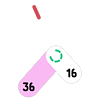
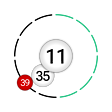
Add initial version with featureSlider

diff --git a/analog-circle-shades/usr/share/asteroid-launcher/watchfaces/analog-circle-shades.qml b/analog-circle-shades/usr/share/asteroid-launcher/watchfaces/analog-circle-shades.qml
@@ -40,7 +40,60 @@ Item {
 
     Item {
         id: batteryChargePercentage
-        property real percent: featureSlider.value
+        property real percent: featureSlider.value * 100
+    }
+
+    Item {
+        id: batterySegments
+
+        anchors.fill: parent
+
+        layer {
+            enabled: true
+            samples: 4
+            smooth: true
+            textureSize: Qt.size(root.width * 2, root.height * 2)
+        }
+
+        Repeater {
+            id: segmentedArc
+
+            property real inputValue: batteryChargePercentage.percent
+            property int segmentAmount: 12
+            property int start: 0
+            property int gap: 6
+            property int endFromStart: 360
+            property bool clockwise: true
+            property real arcStrokeWidth: .011
+            property real scalefactor: .374 - (arcStrokeWidth / 2)
+
+            model: segmentAmount
+
+            Shape {
+                id: segment
+
+                ShapePath {
+                    fillColor: "transparent"
+                    strokeColor: index / segmentedArc.segmentAmount < segmentedArc.inputValue / 100 ? "#26C485" : "black"
+                    strokeWidth: parent.height * segmentedArc.arcStrokeWidth
+                    capStyle: ShapePath.RoundCap
+                    joinStyle: ShapePath.MiterJoin
+                    startX: parent.width / 2
+                    startY: parent.height * ( .5 - segmentedArc.scalefactor)
+
+                    PathAngleArc {
+                        centerX: parent.width / 2
+                        centerY: parent.height / 2
+                        radiusX: segmentedArc.scalefactor * parent.width
+                        radiusY: segmentedArc.scalefactor * parent.height
+                        startAngle: -90 + index * (sweepAngle + (segmentedArc.clockwise ? +segmentedArc.gap : -segmentedArc.gap)) + segmentedArc.start
+                        sweepAngle: segmentedArc.clockwise ? (segmentedArc.endFromStart / segmentedArc.segmentAmount) - segmentedArc.gap :
+                                                             -(segmentedArc.endFromStart / segmentedArc.segmentAmount) + segmentedArc.gap
+                        moveToStart: true
+                    }
+                }
+            }
+        }
     }
 
     Item {
@@ -59,6 +112,13 @@ Item {
                 origin.x: parent.width / 2
                 origin.y: parent.height / 2
                 angle: (wallClock.time.getSeconds() * 6)
+
+                Behavior on angle {
+                    RotationAnimation {
+                        duration: 1000
+                        direction: RotationAnimation.Clockwise
+                    }
+                }
             }
 
             layer {
@@ -168,66 +228,23 @@ Item {
         font{
             pixelSize: parent.height * .08
             family: "Roboto Flex"
-            styleName: "Medium"
+            styleName: "Ligth"
             letterSpacing: -parent.height * .006
         }
-        color: "black"
+        color: "white"
         x: centerX + Math.cos(rotM * 2 * Math.PI) * parent.height * .366
         y: centerY + Math.sin(rotM * 2 * Math.PI) * parent.width * .366
         text: wallClock.time.toLocaleString(Qt.locale(), "ss")
-    }
 
-    Item {
-        id: batterySegments
-
-        anchors.fill: parent
-
-        layer {
-            enabled: true
-            samples: 4
-            smooth: true
-            textureSize: Qt.size(root.width * 2, root.height * 2)
+        Behavior on x {
+            RotationAnimation {
+                duration: 1000
+            }
         }
 
-        Repeater {
-            id: segmentedArc
-
-            property real inputValue: batteryChargePercentage.percent
-            property int segmentAmount: 5
-            property int start: 0
-            property int gap: 28
-            property int endFromStart: 360
-            property bool clockwise: true
-            property real arcStrokeWidth: .017
-            property real scalefactor: .058 - (arcStrokeWidth / 2)
-
-            model: segmentAmount
-
-            Shape {
-                id: segment
-
-                visible: index === 0 ? true : (index/segmentedArc.segmentAmount) < segmentedArc.inputValue
-
-                ShapePath {
-                    fillColor: "transparent"
-                    strokeColor: "#26C485"
-                    strokeWidth: parent.height * segmentedArc.arcStrokeWidth
-                    capStyle: ShapePath.RoundCap
-                    joinStyle: ShapePath.MiterJoin
-                    startX: parent.width / 2
-                    startY: parent.height * ( .5 - segmentedArc.scalefactor)
-
-                    PathAngleArc {
-                        centerX: parent.width / 2
-                        centerY: parent.height / 2
-                        radiusX: segmentedArc.scalefactor * parent.width
-                        radiusY: segmentedArc.scalefactor * parent.height
-                        startAngle: -90 + index * (sweepAngle + (segmentedArc.clockwise ? +segmentedArc.gap : -segmentedArc.gap)) + segmentedArc.start
-                        sweepAngle: segmentedArc.clockwise ? (segmentedArc.endFromStart / segmentedArc.segmentAmount) - segmentedArc.gap :
-                                                             -(segmentedArc.endFromStart / segmentedArc.segmentAmount) + segmentedArc.gap
-                        moveToStart: true
-                    }
-                }
+        Behavior on y {
+            RotationAnimation {
+                duration: 1000
             }
         }
     }
